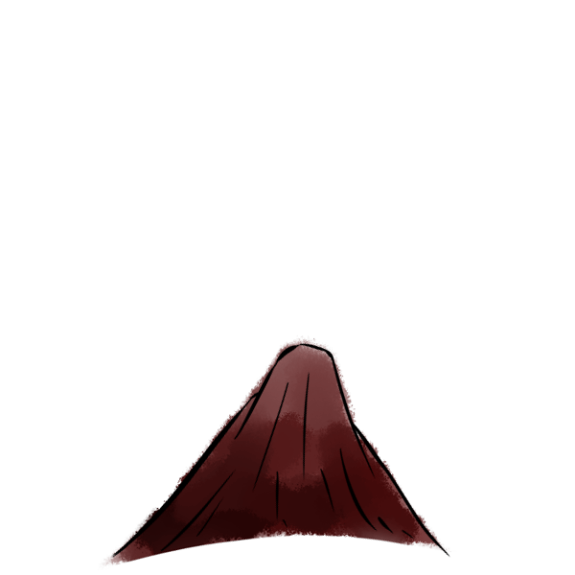
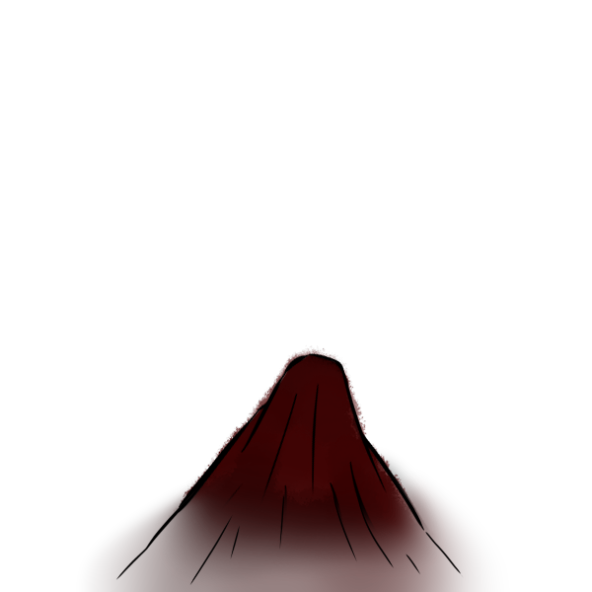
meilleurs volcans

Changed region(s): [[0.1774, 0.7687, 0.7983, 1.0], [0.3843, 0.5913, 0.6209, 0.8278], [0.3548, 0.7687, 0.3843, 0.7983]]

diff --git a/src/Objects/Volcano.py b/src/Objects/Volcano.py
@@ -7,7 +7,7 @@ import math
 class Volcano(PhysicObject):
 
     def __init__(self, imgPath, position, size, parent):
-        super().__init__(position, parent, imgPath, (size[0], int(size[1]*.5)))
+        super().__init__(position, parent, imgPath, (int(size[0]*.7), int(size[1]*.7)))
         self.parent=parent
         self.eruptionCycle = 0
         self.i=1

diff --git a/src/Objects/Object.py b/src/Objects/Object.py
@@ -31,7 +31,7 @@ class Object:
 
         self.parent = parent
         if self.parent != None:
-            self.distanceToParent = parent.size[0]*0.48
+            self.distanceToParent = parent.size[0]*0.5
             self.rotationSpeed = parent.rotationSpeed
         else:
             self.distanceToParent = 0
